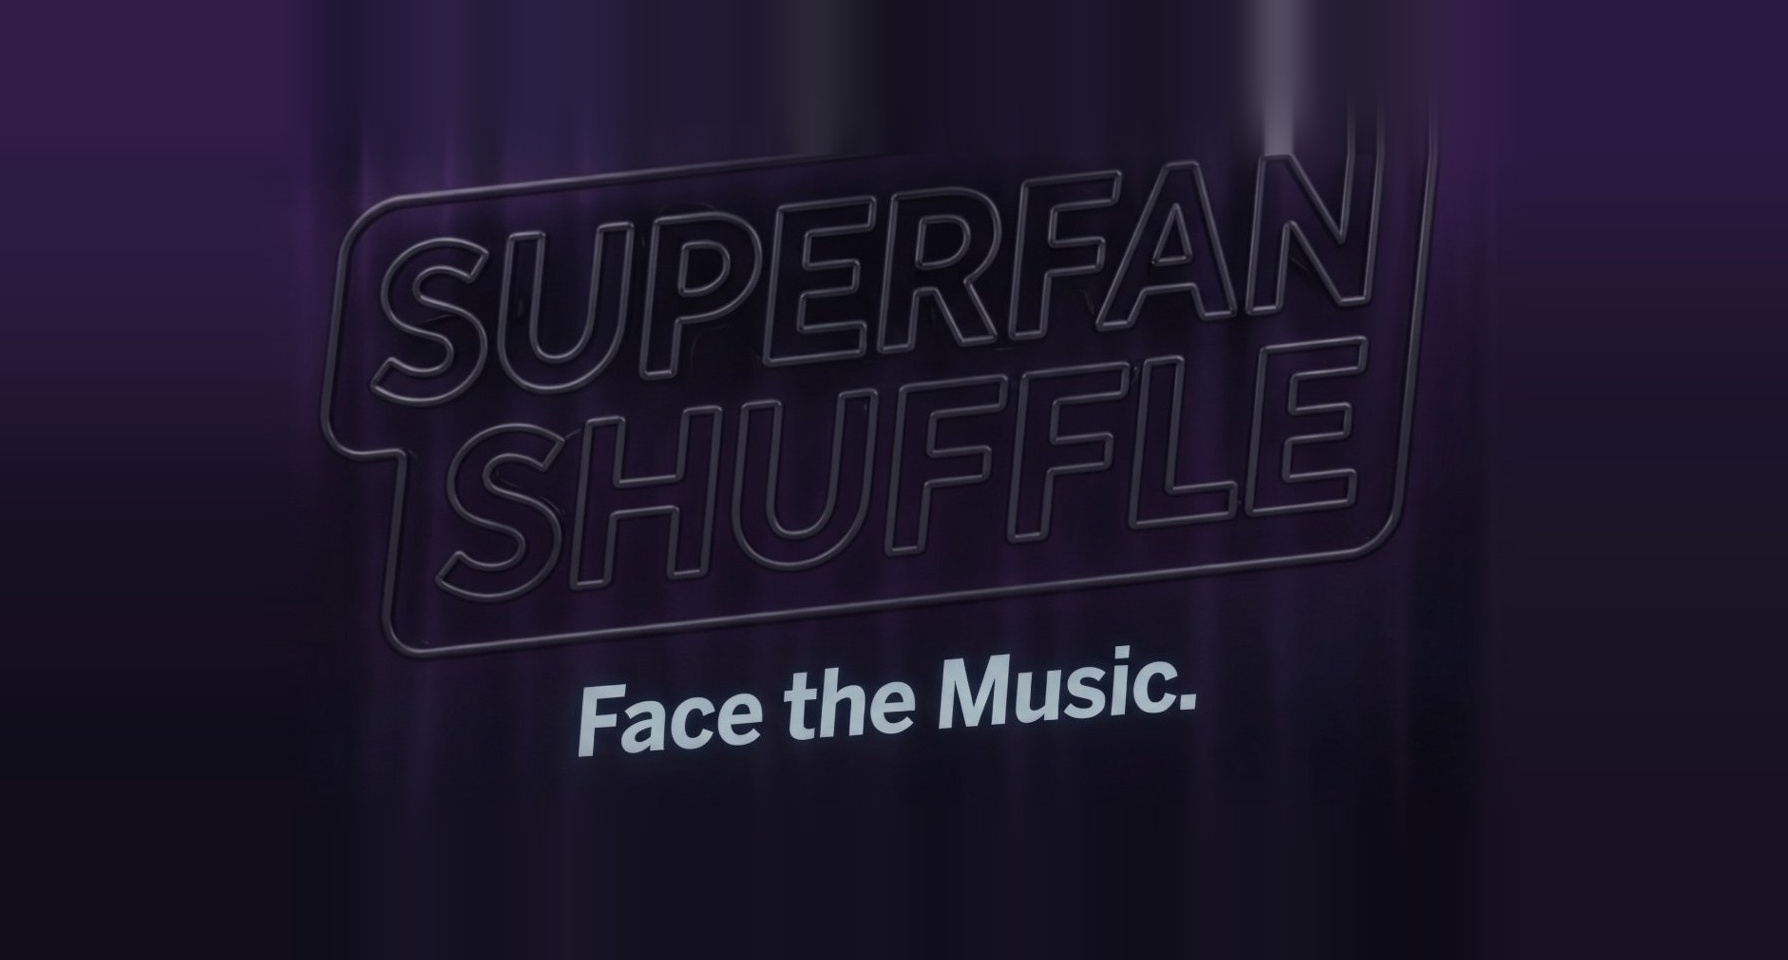
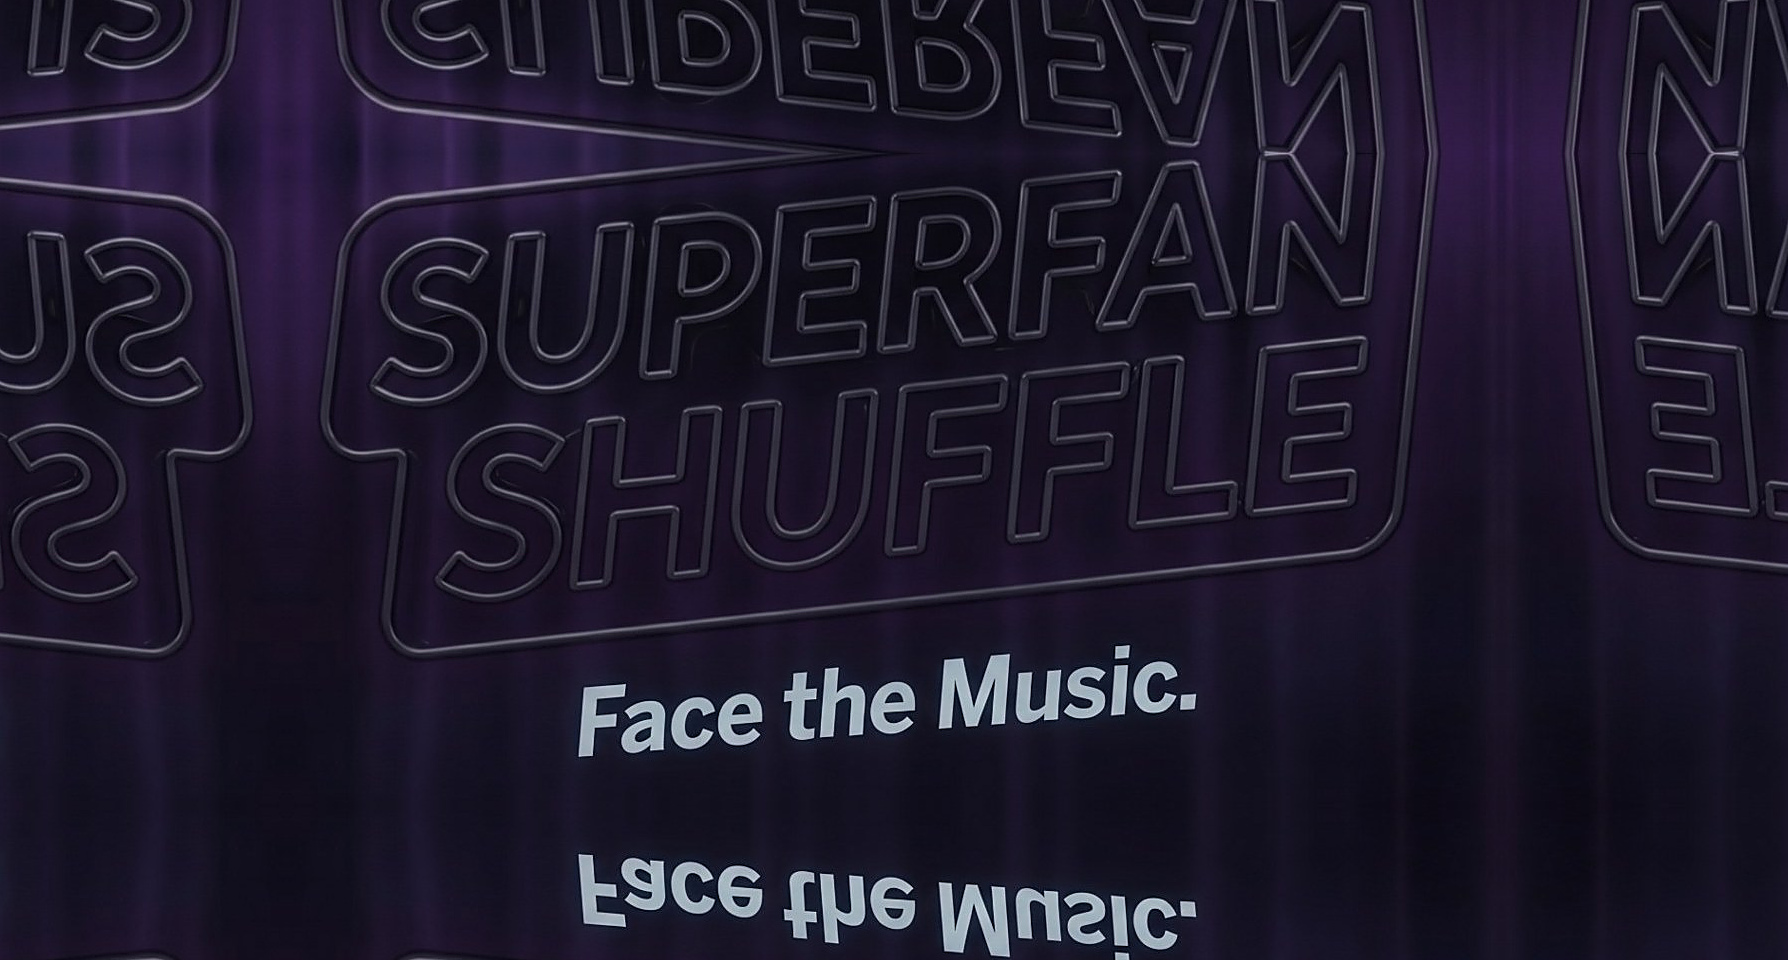
Header: mirror the curtain outward instead of smearing edge pixels (it now reads as real drape past the sign), drop the blur fill, and unsharp the neon tubing — the source render is glow-soft and my blur was compounding it. sw v11.

diff --git a/sw.js b/sw.js
@@ -1,4 +1,4 @@
-var CACHE='sfs-v10';
+var CACHE='sfs-v11';
 var ASSETS=['/','/index.html','/play.html','/manifest.webmanifest','/icon-192.png','/icon-512.png','/apple-touch-icon.png'];
 self.addEventListener('install',function(e){ e.waitUntil(caches.open(CACHE).then(function(c){return c.addAll(ASSETS).catch(function(){});}).then(function(){return self.skipWaiting();})); });
 self.addEventListener('activate',function(e){ e.waitUntil(caches.keys().then(function(keys){return Promise.all(keys.map(function(k){if(k!==CACHE)return caches.delete(k);}));}).then(function(){return self.clients.claim();})); });